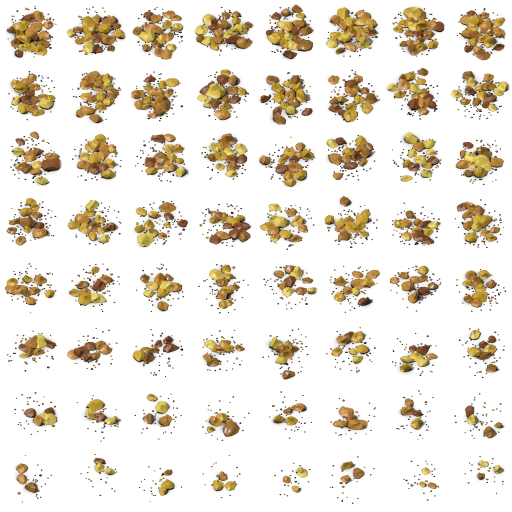
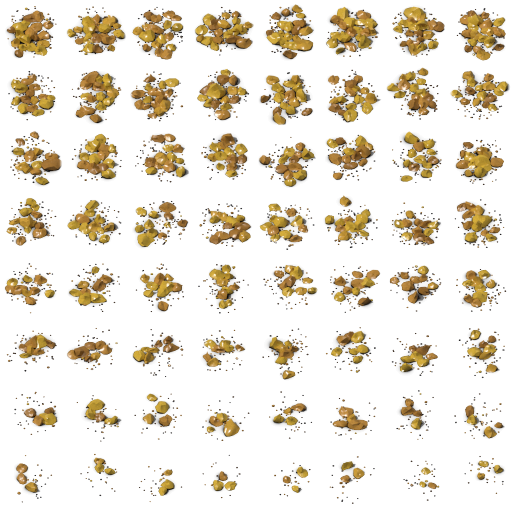
Monazite M1 : matiere corrigee apres critique (une famille or-miel-ambre, eclat resineux)
Critique du directeur artistique (30/10, CRITIQUE.md de la page) : forme juste, matiere pas
au niveau vanilla (jaune citron et brun-rouge meles : bruit au zoom 1 ; faces mates ;
grains de magnetite sur les rognons).
- directions.py : matieres monazite_or_v, monazite_miel_v, monazite_ambre (rugosite
  0,24 a 0,28), une piece sur sept en resine ; grains sans magnetite. Memes longueurs
  de listes : meme geometrie, meme couverture.
- feuille a 128 echantillons : check_gisement 7 OK, mutants 10/10 refuses.
- x2-supra avec images (moteur reel, place 1, code 0) ; x2_lisibilite 11 OK, 1 ECHEC
  (N6, defaut connu : 0,368 contre 0,380 avant).

Choix provisoire, sans verdict du DC.

diff --git a/tools/render/pieces/ressources/directions.py b/tools/render/pieces/ressources/directions.py
@@ -684,6 +684,26 @@ ICONE["M1"] = dict(ICONE["M1"], roches=(4, 4), roche_taille=(0.27, 0.33), roche_
 # nombreux et plus larges, écart minimal plein (0,95), comptes des stades 1 à 3 un peu réduits.
 DIRECTIONS["M1"].update(roches=(18, 15, 12, 11, 9, 7, 4, 3), amas=(4, 4, 3, 3, 3, 2, 2, 1), amas_etendue=0.21,
                         amas_serre=0.95)
+# Critique du directeur artistique (30/10, 11 h, CRITIQUE.md de la page) : forme juste, MATIÈRE pas au niveau vanilla.
+# (1) deux familles de teinte mêlées (jaune citron « soufre » et brun-rouge « brun ») : bruit de pixels au zoom 1,
+# lecture « corn flakes », « feuilles mortes », et le brun-rouge rapproche du cuivre, de la bauxite et de la blende ;
+# (2) faces mates (rugosité 0,36 à 0,40) : aucun reflet franc, alors que le cuivre et le fer vanilla en ont un et que
+# la monazite réelle a un éclat RÉSINEUX ; (3) grains de magnétite tombés sur les rognons : points noirs au zoom 4.
+# Correction de MATIÈRE seule : mêmes longueurs de listes de matières, donc mêmes tirages (rng.choice) et MÊME
+# géométrie, même couverture que M1 production ; une seule famille or-miel-ambre, éclat résineux (rugosité 0,24 à
+# 0,28), une pièce sur sept en résine sombre pour la profondeur, plus de soufre ni de brun-rouge ; grains sans magnétite
+# (la magnétite reste dans le tapis de fins, au sol).
+MAT.update({
+    "monazite_or_v": dict(color=(0.62, 0.40, 0.035), rough=0.24, met=0.0, grain=0.22, gscale=36.0, dirt=0.3),
+    "monazite_miel_v": dict(color=(0.50, 0.25, 0.040), rough=0.26, met=0.0, grain=0.25, gscale=36.0, dirt=0.35),
+    "monazite_ambre": dict(color=(0.58, 0.33, 0.035), rough=0.24, met=0.0, grain=0.22, gscale=36.0, dirt=0.3),
+})
+DIRECTIONS["M1"].update(
+    roche_mats=("monazite_or_v", "monazite_or_v", "monazite_miel_v", "monazite_ambre", "monazite_or_v",
+                "monazite_miel_v", "monazite_resine"),
+    grain_mats=("monazite_miel_v", "monazite_resine", "monazite_resine", "monazite_or_v"))
+ICONE["M1"] = dict(ICONE["M1"], roche_mats=("monazite_or_v", "monazite_miel_v", "monazite_ambre", "monazite_miel_v",
+                                            "monazite_or_v"))
 ICONE["M3"] = dict(lames=(0, 0), roches=(1, 2), roche_taille=(0.14, 0.18), roche_coupes=7, roche_cassure=(0.40, 0.75),
                    roche_aplat=0.7, roche_creux=2, roche_mats=("monazite_resine", "monazite_miel"),
                    coins=4, coin_taille=(0.30, 0.40), coin_haut=(0.14, 0.20),
